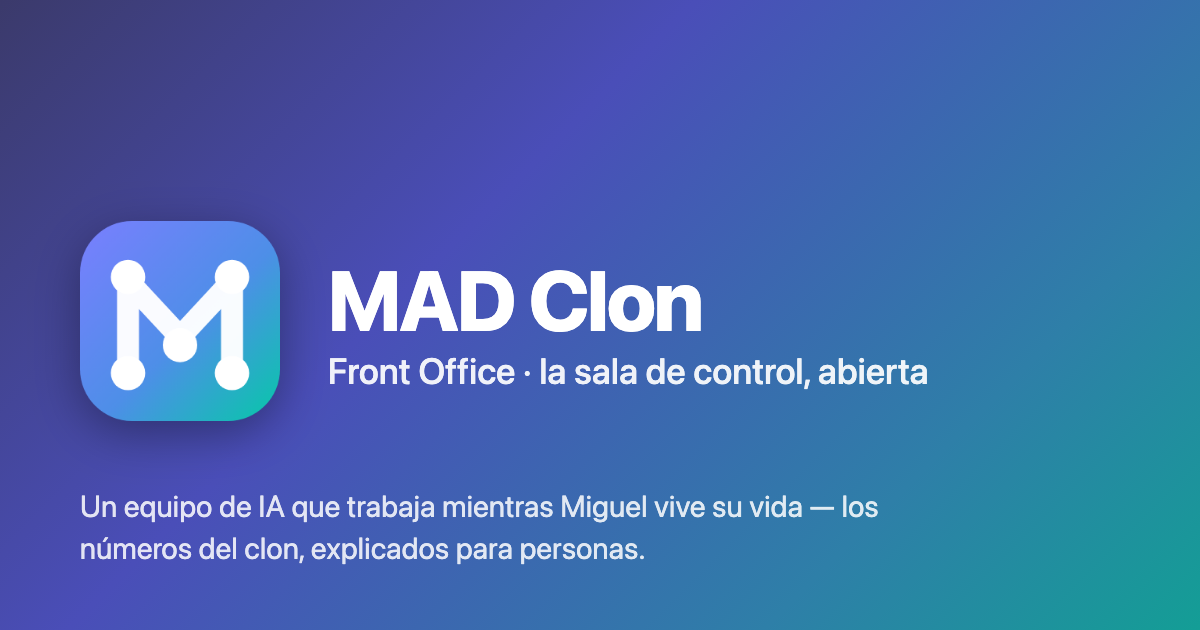
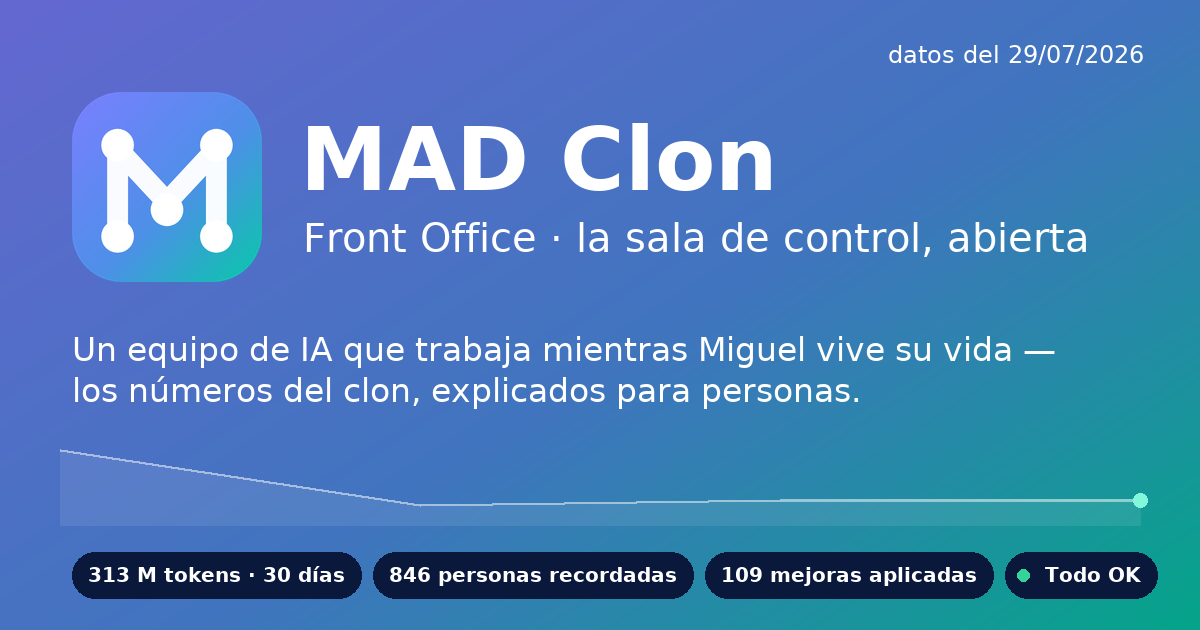
kimi: og-image viva — la imagen social se regenera con las cifras del día (script exporter/og_image.py: pulso de 30 días + chips de tokens/personas/mejoras/salud + fecha de datos) y arreglo del hallazgo: la og:image llevaba la subruta duplicada desde el lanzamiento y daba 404 al compartir

diff --git a/web/src/app/layout.tsx b/web/src/app/layout.tsx
@@ -31,7 +31,7 @@ export const metadata = {
     description: 'Un equipo de IA que trabaja mientras Miguel vive su vida — los números del clon, explicados para personas.',
     url: 'https://migueldadd4u.github.io/madclon-front-office/',
     siteName: 'MAD Clon',
-    images: [{ url: '/madclon-front-office/images/og-madclon.png', width: 1200, height: 630, alt: 'MAD Clon — Front Office' }],
+    images: [{ url: '/images/og-madclon.png', width: 1200, height: 630, alt: 'MAD Clon — Front Office' }],
     locale: 'es_ES',
     type: 'website'
   },
@@ -39,7 +39,7 @@ export const metadata = {
     card: 'summary_large_image',
     title: 'MAD Clon — Front Office',
     description: 'Un equipo de IA que trabaja mientras Miguel vive su vida — los números del clon, explicados para personas.',
-    images: ['/madclon-front-office/images/og-madclon.png']
+    images: ['/images/og-madclon.png']
   }
 }
 

diff --git a/exporter/og_image.py b/exporter/og_image.py
@@ -1,0 +1,202 @@
+#!/usr/bin/env python3
+"""og-image viva — regenera web/public/images/og-madclon.png con las cifras del día.
+
+Lee los JSON públicos ya exportados (overview.json, serie.json, manifest.json) y pinta
+la imagen social 1200x630: marca + tagline (como siempre) + pulso de tokens de 30 días
++ chips con las cifras vivas + fecha de los datos.
+
+Uso:  python exporter/og_image.py
+      python exporter/og_image.py --data web/public/data --out web/public/images/og-madclon.png
+
+Solo lee datos ya públicos; no toca el vault. Script nuevo e independiente:
+NO forma parte de export_panel.py ni de la automatización nocturna (zona roja;
+cablearlo al job nocturno requiere OK de MAD).
+"""
+
+import argparse
+import json
+from datetime import datetime
+from pathlib import Path
+
+import numpy as np
+from PIL import Image, ImageDraw, ImageFont
+
+W, H = 1200, 630
+
+# Degradado de marca: indigo -> azul -> teal
+INDIGO = (122, 127, 255)
+AZUL = (78, 143, 232)
+TEAL = (6, 201, 168)
+
+
+def _fonts():
+    """Fuentes TTF: primero las de matplotlib (siempre presentes en el runtime gestionado)."""
+    try:
+        import matplotlib
+
+        ttf = Path(matplotlib.get_data_path()) / "fonts" / "ttf"
+        bold = ttf / "DejaVuSans-Bold.ttf"
+        reg = ttf / "DejaVuSans.ttf"
+        if bold.exists() and reg.exists():
+            return str(bold), str(reg)
+    except Exception:
+        pass
+    for bold, reg in [
+        ("/System/Library/Fonts/Supplemental/Arial Bold.ttf", "/System/Library/Fonts/Supplemental/Arial.ttf"),
+        ("/System/Library/Fonts/Helvetica.ttc", "/System/Library/Fonts/Helvetica.ttc"),
+    ]:
+        if Path(bold).exists():
+            return bold, reg
+    raise SystemExit("no se encontró una fuente TTF usable")
+
+
+BOLD, REG = _fonts()
+
+
+def font(path, size):
+    return ImageFont.truetype(path, size)
+
+
+def degradado():
+    """Gradiente diagonal indigo -> azul -> teal, oscurecido un pelín como el og original."""
+    yy, xx = np.mgrid[0:H, 0:W]
+    t = (xx / W * 0.55 + yy / H * 0.45)  # 0 arriba-izquierda, 1 abajo-derecha
+    img = np.zeros((H, W, 3), dtype=np.float64)
+    c1, c2, c3 = np.array(INDIGO), np.array(AZUL), np.array(TEAL)
+    medio = 0.55
+    m1 = np.clip(t / medio, 0, 1)[..., None]
+    m2 = np.clip((t - medio) / (1 - medio), 0, 1)[..., None]
+    img = c1 * (1 - m1) + c2 * m1
+    img = img * (1 - m2) + c3 * m2
+    img *= 0.82  # tono general más oscuro, como el og de marca
+    return Image.fromarray(img.astype(np.uint8), "RGB")
+
+
+def fmt_millones(n):
+    m = n / 1_000_000
+    s = f"{m:.0f}" if m >= 100 else f"{m:.1f}"
+    return f"{s} M"
+
+
+def sparkline(base, serie, y_top, y_bot):
+    """Pulso de tokens de los últimos días, sutil, a lo ancho del pie.
+    Se pinta en una capa aparte y se fusiona: el alpha de PIL en modo directo no mezcla."""
+    toks = [d.get("contexto", {}).get("tokens", 0) for d in serie[-30:]]
+    toks = [t for t in toks if t]
+    if len(toks) < 2:
+        return
+    lo, hi = min(toks), max(toks)
+    rango = (hi - lo) or 1
+    n = len(toks)
+    x0, x1 = 60, W - 60
+    pts = []
+    for i, v in enumerate(toks):
+        x = x0 + (x1 - x0) * i / (n - 1)
+        y = y_bot - (v - lo) / rango * (y_bot - y_top)
+        pts.append((x, y))
+    capa = Image.new("RGBA", base.size, (0, 0, 0, 0))
+    d = ImageDraw.Draw(capa)
+    poly = pts + [(x1, y_bot + 20), (x0, y_bot + 20)]
+    d.polygon(poly, fill=(255, 255, 255, 22))
+    d.line(pts, fill=(255, 255, 255, 135), width=3, joint="curve")
+    # punto final (hoy) destacado en teal claro
+    x, y = pts[-1]
+    d.ellipse([x - 7, y - 7, x + 7, y + 7], fill=(140, 255, 226, 235))
+    base.alpha_composite(capa)
+
+
+def chip(draw, xy, texto, fnt, anclaje_x, punto=None):
+    """Chip redondeado con texto; devuelve la x siguiente."""
+    x, y = xy
+    pad_x, alto = 16, 46
+    tw = draw.textlength(texto, font=fnt)
+    ancho = pad_x * 2 + tw + (24 if punto else 0)
+    draw.rounded_rectangle([x, y, x + ancho, y + alto], radius=23, fill=(10, 24, 60, 150))
+    tx = x + pad_x
+    if punto:
+        cx, cy = x + pad_x + 2, y + alto / 2
+        draw.ellipse([cx - 6, cy - 6, cx + 6, cy + 6], fill=punto)
+        tx += 24
+    draw.text((tx, y + alto / 2), texto, font=fnt, fill=(255, 255, 255, 235), anchor="lm")
+    return x + ancho + 12
+
+
+def main():
+    ap = argparse.ArgumentParser()
+    raiz = Path(__file__).resolve().parent.parent
+    ap.add_argument("--data", default=str(raiz / "web" / "public" / "data"))
+    ap.add_argument("--out", default=str(raiz / "web" / "public" / "images" / "og-madclon.png"))
+    ap.add_argument("--logo", default=str(raiz / "web" / "public" / "images" / "logo-512.png"))
+    args = ap.parse_args()
+
+    data = Path(args.data)
+    overview = json.loads((data / "overview.json").read_text())
+    serie = json.loads((data / "serie.json").read_text()).get("serie", [])
+    manifest = json.loads((data / "manifest.json").read_text())
+
+    tokens_30d = overview.get("tokens_resumen", {}).get("tokens_30d", 0)
+    personas = overview.get("personas", {}).get("fichas_curadas", 0)
+    mejoras = overview.get("automejora", {}).get("hechas", 0)
+    salud = overview.get("salud_global", "").replace("🟢", "").replace("🟡", "").replace("🔴", "").strip() or "Todo OK"
+    ok = "OK" in salud and "🟡" not in overview.get("salud_global", "") and "🔴" not in overview.get("salud_global", "")
+
+    gen = manifest.get("generado", "")
+    try:
+        fecha = datetime.fromisoformat(gen.replace("Z", "+00:00")).strftime("%d/%m/%Y")
+    except Exception:
+        fecha = datetime.now().strftime("%d/%m/%Y")
+
+    base = degradado().convert("RGBA")
+    draw = ImageDraw.Draw(base, "RGBA")
+
+    # --- cabecera: logo + nombre + tagline (como el og original) ---
+    logo = Image.open(args.logo).convert("RGBA").resize((190, 190), Image.LANCZOS)
+    base.alpha_composite(logo, (72, 92))
+
+    f_nombre = font(BOLD, 88)
+    f_sub = font(REG, 40)
+    f_tag = font(REG, 33)
+    f_fecha = font(REG, 24)
+
+    draw.text((300, 108), "MAD Clon", font=f_nombre, fill=(255, 255, 255, 255))
+    draw.text((303, 214), "Front Office · la sala de control, abierta", font=f_sub, fill=(255, 255, 255, 225))
+    draw.text(
+        (72, 330),
+        "Un equipo de IA que trabaja mientras Miguel vive su vida —\nlos números del clon, explicados para personas.",
+        font=f_tag,
+        fill=(255, 255, 255, 205),
+        spacing=10,
+    )
+
+    # --- pulso vivo de los últimos 30 días ---
+    sparkline(base, serie, y_top=450, y_bot=505)
+
+    # --- chips con las cifras de hoy (auto-ajuste: baja la fuente hasta que quepan) ---
+    color_punto = (52, 211, 153) if ok else (251, 191, 36)
+    textos = [
+        (f"{fmt_millones(tokens_30d)} tokens · 30 días", None),
+        (f"{personas} personas recordadas", None),
+        (f"{mejoras} mejoras aplicadas", None),
+        (salud, color_punto),
+    ]
+    limite = W - 2 * 56
+    for talla in (24, 23, 22, 21, 20):
+        f_chip = font(BOLD, talla)
+        total = sum(draw.textlength(t, font=f_chip) + 16 * 2 + (24 if p else 0) for t, p in textos) + 12 * (len(textos) - 1)
+        if total <= limite:
+            break
+    x = 72
+    for texto, punto in textos:
+        x = chip(draw, (x, 552), texto, f_chip, x, punto=punto)
+
+    # --- fecha de los datos, discreta ---
+    draw.text((W - 56, 40), f"datos del {fecha}", font=f_fecha, fill=(255, 255, 255, 150), anchor="ra")
+
+    out = Path(args.out)
+    out.parent.mkdir(parents=True, exist_ok=True)
+    base.convert("RGB").save(out, "PNG", optimize=True)
+    print(f"og-image regenerada: {out} ({out.stat().st_size} bytes) — datos del {fecha}")
+
+
+if __name__ == "__main__":
+    main()
